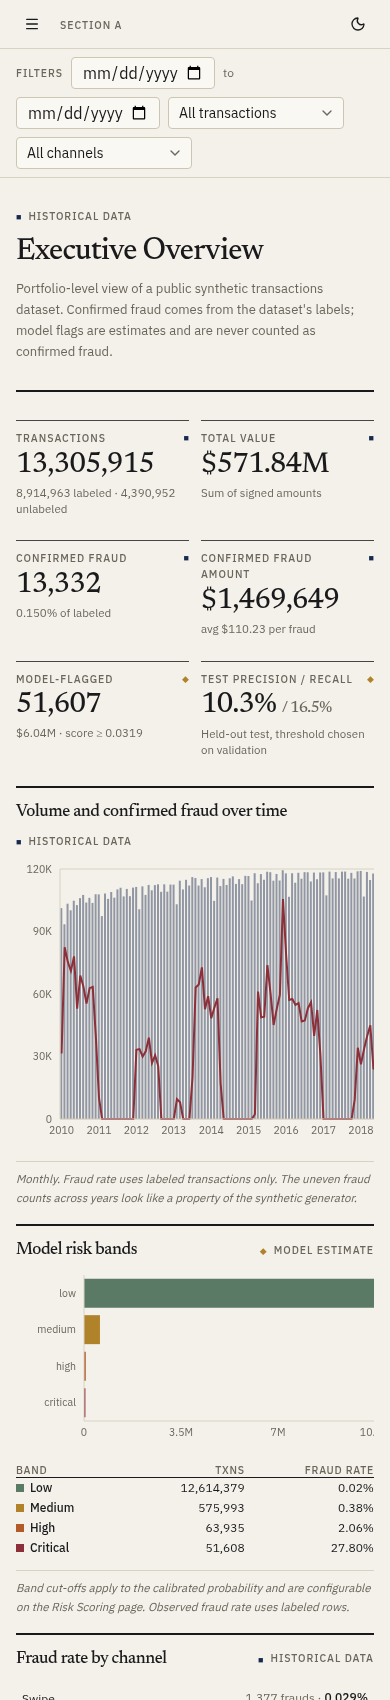
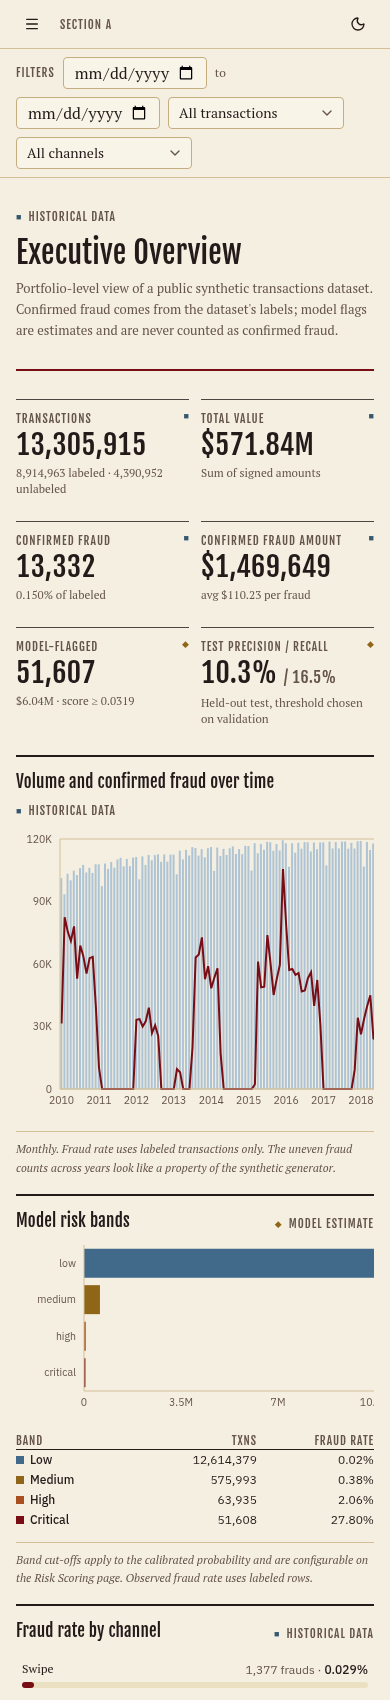
Theme: crimson/tan/cream/dusty-blue palette; Fjalla One headings, PT Serif body

diff --git a/frontend/app/globals.css b/frontend/app/globals.css
@@ -12,10 +12,10 @@
   --color-accent2: var(--accent2);
   --color-background: var(--background);
   --color-foreground: var(--foreground);
-  --font-sans: var(--font-plex-sans);
+  --font-sans: var(--font-ptserif);
   --font-mono: var(--font-plex-mono);
-  --font-heading: var(--font-serif);
-  --font-serif: var(--font-newsreader);
+  --font-heading: var(--font-fjalla);
+  --font-serif: var(--font-fjalla);
   --color-sidebar-ring: var(--sidebar-ring);
   --color-sidebar-border: var(--sidebar-border);
   --color-sidebar-accent-foreground: var(--sidebar-accent-foreground);
@@ -134,47 +134,60 @@
     @apply font-sans;
   }
 }
+/* Palette: crimson #790d16, tan #e5d3af, cream #f5efe1, dusty blue #aec4d4. Other tones are derived from these. */
 :root {
   --radius: 0.25rem;
-  --background: #f4f1ea; --foreground: #1a1a1c;
-  --card: #faf8f3; --card-foreground: #1a1a1c;
-  --popover: #fbf9f5; --popover-foreground: #1a1a1c;
-  --primary: #17294d; --primary-foreground: #f6f3ec;
-  --secondary: #ebe7dc; --secondary-foreground: #1a1a1c;
-  --muted: #ebe7dc; --muted-foreground: #6a665c;
-  --accent: #e9e4d6; --accent-foreground: #17294d;
-  --destructive: #8c2f39;
-  --border: #d8d2c3; --input: #cdc6b5; --ring: #17294d;
-  --sidebar: #efebe1; --sidebar-foreground: #1a1a1c; --sidebar-border: #d8d2c3;
-  --low: #5b7a66; --medium: #b0832a; --high: #b25a28; --critical: #8c2f39; --accent2: #3f6a82;
-  --chart-1: #17294d; --chart-2: #6f8aa3; --chart-3: #b0832a; --chart-4: #a8a191; --chart-5: #8c2f39;
+  --background: #f5efe1; --foreground: #231a1a;
+  --card: #f9f4e8; --card-foreground: #231a1a;
+  --popover: #faf6ec; --popover-foreground: #231a1a;
+  --primary: #790d16; --primary-foreground: #f5efe1;
+  --secondary: #e5d3af; --secondary-foreground: #231a1a;
+  --muted: #ece0c3; --muted-foreground: #65544a;
+  --accent: #e5d3af; --accent-foreground: #790d16;
+  --destructive: #790d16;
+  --border: #d3c096; --input: #c4ae80; --ring: #790d16;
+  --sidebar: #e5d3af; --sidebar-foreground: #231a1a; --sidebar-border: #c9b487;
+  --low: #41698a; --medium: #8f6618; --high: #a8501f; --critical: #790d16; --accent2: #36586f;
+  --chart-1: #790d16; --chart-2: #aec4d4; --chart-3: #8f6618; --chart-4: #c9b487; --chart-5: #790d16;
 }
 .dark {
-  --background: #141517; --foreground: #e9e5da;
-  --card: #1a1b1e; --card-foreground: #e9e5da;
-  --popover: #1c1d20; --popover-foreground: #e9e5da;
-  --primary: #b8c7e6; --primary-foreground: #121a2b;
-  --secondary: #232427; --secondary-foreground: #e9e5da;
-  --muted: #232427; --muted-foreground: #9a968a;
-  --accent: #26272b; --accent-foreground: #d5def2;
-  --destructive: #d0616c;
-  --border: #2d2e32; --input: #3a3b40; --ring: #b8c7e6;
-  --sidebar: #111214; --sidebar-foreground: #e9e5da; --sidebar-border: #2d2e32;
-  --low: #84a58f; --medium: #d1a449; --high: #d98350; --critical: #d0616c; --accent2: #7fa6bd;
-  --chart-1: #b8c7e6; --chart-2: #6f8aa3; --chart-3: #d1a449; --chart-4: #6b685f; --chart-5: #d0616c;
+  --background: #1c1315; --foreground: #f5efe1;
+  --card: #251a1c; --card-foreground: #f5efe1;
+  --popover: #2a1e20; --popover-foreground: #f5efe1;
+  --primary: #e08a91; --primary-foreground: #240a0d;
+  --secondary: #33262a; --secondary-foreground: #f5efe1;
+  --muted: #2b2023; --muted-foreground: #bcae96;
+  --accent: #3a2b2e; --accent-foreground: #e5d3af;
+  --destructive: #e08a91;
+  --border: #3d2d30; --input: #4b393c; --ring: #e08a91;
+  --sidebar: #160e10; --sidebar-foreground: #f5efe1; --sidebar-border: #3d2d30;
+  --low: #8fb0c8; --medium: #d4a85a; --high: #e08a57; --critical: #e5737b; --accent2: #aec4d4;
+  --chart-1: #e08a91; --chart-2: #aec4d4; --chart-3: #d4a85a; --chart-4: #6b5a50; --chart-5: #e5737b;
 }
 @layer base {
-  body { background: var(--background); font-feature-settings: "ss01", "cv11"; -webkit-font-smoothing: antialiased; }
-  h1, h2, .serif { font-family: var(--font-serif), Georgia, serif; font-feature-settings: "lnum", "tnum"; }
+  * {
+    @apply border-border outline-ring/50;
+  }
+  body {
+    @apply bg-background text-foreground;
+  }
+  html {
+    @apply font-sans;
+  }
 }
-.tnum { font-variant-numeric: tabular-nums lining-nums; }
-.eyebrow { font-size: 10.5px; letter-spacing: 0.09em; text-transform: uppercase; color: var(--muted-foreground); font-weight: 500; }
+@layer base {
+  body { background: var(--background); -webkit-font-smoothing: antialiased; }
+  h1, h2, .serif { font-family: var(--font-fjalla), Impact, sans-serif; font-weight: 400; letter-spacing: 0.01em; }
+}
+.tnum { font-family: var(--font-plex-sans), system-ui, sans-serif; font-variant-numeric: tabular-nums lining-nums; }
+.tnum.serif { font-family: var(--font-fjalla), Impact, sans-serif; letter-spacing: 0.01em; }
+.eyebrow { font-family: var(--font-fjalla), Impact, sans-serif; font-weight: 400; font-size: 11.5px; letter-spacing: 0.09em; text-transform: uppercase; color: var(--muted-foreground); font-weight: 500; }
 .rule-table th { font-size: 10.5px; letter-spacing: 0.07em; text-transform: uppercase; font-weight: 500; }
 @keyframes rise { from { opacity: 0; transform: translateY(3px); } to { opacity: 1; transform: none; } }
 .rise { animation: rise .25s ease both; }
 @media (prefers-reduced-motion: reduce) { .rise { animation: none; } }
 @media print { aside, header, .no-print { display: none !important; } body { background: #fff; } }
-thead th { font-size: 10.5px; letter-spacing: 0.07em; text-transform: uppercase; font-weight: 500 !important; color: var(--muted-foreground); }
+thead th { font-family: var(--font-fjalla), Impact, sans-serif; font-size: 11.5px; letter-spacing: 0.08em; text-transform: uppercase; font-weight: 400 !important; color: var(--muted-foreground); }
 thead tr { border-bottom: 1px solid var(--foreground); }
 tbody tr { border-color: var(--border); }
 input, textarea, [role="combobox"] { background: var(--card) !important; }

diff --git a/frontend/components/kit.tsx b/frontend/components/kit.tsx
@@ -7,9 +7,9 @@ import Link from "next/link";
 
 export type Kind = "historical" | "model" | "simulated";
 const KIND: Record<Kind, { label: string; glyph: string; cls: string }> = {
-  historical: { label: "Historical data", glyph: "■", cls: "text-chart-1" },
+  historical: { label: "Historical data", glyph: "■", cls: "text-accent2" },
   model: { label: "Model estimate", glyph: "◆", cls: "text-chart-3" },
-  simulated: { label: "Simulated scenario", glyph: "◇", cls: "text-chart-5" },
+  simulated: { label: "Simulated scenario", glyph: "◇", cls: "text-primary" },
 };
 export function Provenance({ kind, className }: { kind: Kind; className?: string }) {
   const k = KIND[kind];
@@ -18,10 +18,10 @@ export function Provenance({ kind, className }: { kind: Kind; className?: string
 
 export function PageHeader({ title, subtitle, kind, children }: { title: string; subtitle?: string; kind?: Kind; children?: React.ReactNode }) {
   return (
-    <div className="rise mb-7 flex flex-wrap items-end justify-between gap-3 border-b-2 border-foreground pb-4">
+    <div className="rise mb-7 flex flex-wrap items-end justify-between gap-3 border-b-2 border-primary pb-4">
       <div>
         {kind && <div className="mb-2"><Provenance kind={kind} /></div>}
-        <h1 className="text-[30px] font-medium leading-tight tracking-tight">{title}</h1>
+        <h1 className="text-[30px] font-medium leading-tight ">{title}</h1>
         {subtitle && <p className="mt-1.5 max-w-3xl text-[13px] leading-relaxed text-muted-foreground">{subtitle}</p>}
       </div>
       <div className="no-print flex items-center gap-2">{children}</div>
@@ -36,7 +36,7 @@ export function Kpi({ label, value, sub, href, kind, hint }: { label: string; va
         <span className="eyebrow">{label}</span>
         {kind && <span aria-label={KIND[kind].label} title={KIND[kind].label} className={cn("text-[9px]", KIND[kind].cls)}>{KIND[kind].glyph}</span>}
       </div>
-      <div className="tnum serif mt-1 text-[28px] font-medium leading-none tracking-tight">{value}</div>
+      <div className="tnum serif mt-1 text-[28px] font-medium leading-none ">{value}</div>
       {sub && <div className="mt-1.5 text-[11.5px] leading-snug text-muted-foreground">{sub}</div>}
     </div>
   );
@@ -47,7 +47,7 @@ export function Panel({ title, kind, note, children, className, action }: { titl
   return (
     <section className={cn("rise min-w-0 border-t-2 border-foreground pt-3", className)}>
       <div className="mb-3 flex flex-wrap items-baseline justify-between gap-2">
-        <h2 className="text-[17px] font-medium tracking-tight">{title}</h2>
+        <h2 className="text-[17px] font-medium ">{title}</h2>
         <div className="flex items-center gap-3">{action}{kind && <Provenance kind={kind} />}</div>
       </div>
       <div className="space-y-3 overflow-x-auto">{children}</div>

diff --git a/frontend/app/analytics/page.tsx b/frontend/app/analytics/page.tsx
@@ -51,7 +51,7 @@ export default function Analytics() {
             <div><dt className="text-xs text-muted-foreground">Fraud in top 1% of clients</dt><dd className="tnum">{pct(d.concentration.share_in_top_1pct_clients, 1)}</dd></div>
             <div><dt className="text-xs text-muted-foreground">Fraud in top 10% of clients</dt><dd className="tnum">{pct(d.concentration.share_in_top_10pct_clients, 1)}</dd></div></dl>)}</Async></Panel>
         <Panel title="Amount distribution" kind="historical" className="lg:col-span-2" note={h.data?.note}>
-          <Async state={h} h="h-64">{(d) => (<div className="h-64"><ResponsiveContainer><BarChart data={d.rows} margin={{ left: 0, right: 8 }}><CartesianGrid stroke={GRID} vertical={false} /><XAxis dataKey="bucket" {...AXIS} tickFormatter={(v: number) => "$" + v} /><YAxis {...AXIS} width={50} tickFormatter={(v: number) => (v >= 1e6 ? (v / 1e6).toFixed(1) + "M" : v >= 1e3 ? (v / 1e3).toFixed(0) + "k" : String(v))} /><Tooltip content={<ChartTip fmt={(_n, v) => n0(v)} />} /><Bar isAnimationActive={false} dataKey="n" name="Transactions" fill="var(--chart-1)" fillOpacity={0.6} /><Bar isAnimationActive={false} dataKey="fraud" name="Confirmed fraud" fill="var(--chart-5)" /></BarChart></ResponsiveContainer></div>)}</Async></Panel>
+          <Async state={h} h="h-64">{(d) => (<div className="h-64"><ResponsiveContainer><BarChart data={d.rows} margin={{ left: 0, right: 8 }}><CartesianGrid stroke={GRID} vertical={false} /><XAxis dataKey="bucket" {...AXIS} tickFormatter={(v: number) => "$" + v} /><YAxis {...AXIS} width={50} tickFormatter={(v: number) => (v >= 1e6 ? (v / 1e6).toFixed(1) + "M" : v >= 1e3 ? (v / 1e3).toFixed(0) + "k" : String(v))} /><Tooltip content={<ChartTip fmt={(_n, v) => n0(v)} />} /><Bar isAnimationActive={false} dataKey="n" name="Transactions" fill="var(--chart-2)" /><Bar isAnimationActive={false} dataKey="fraud" name="Confirmed fraud" fill="var(--chart-5)" /></BarChart></ResponsiveContainer></div>)}</Async></Panel>
       </div>
     </>
   );

diff --git a/frontend/app/layout.tsx b/frontend/app/layout.tsx
@@ -1,5 +1,5 @@
 import type { Metadata } from "next";
-import { IBM_Plex_Sans, IBM_Plex_Mono, Newsreader } from "next/font/google";
+import { IBM_Plex_Sans, IBM_Plex_Mono, Fjalla_One, PT_Serif } from "next/font/google";
 import { ThemeProvider } from "next-themes";
 import { TooltipProvider } from "@/components/ui/tooltip";
 import { FiltersProvider } from "@/lib/filters";
@@ -7,7 +7,8 @@ import { Shell } from "@/components/shell";
 import "./globals.css";
 import { cn } from "@/lib/utils";
 
-const serif = Newsreader({ subsets: ['latin'], weight: ['400', '500', '600'], style: ['normal', 'italic'], variable: '--font-newsreader' });
+const fjalla = Fjalla_One({ subsets: ['latin'], weight: '400', variable: '--font-fjalla' });
+const ptserif = PT_Serif({ subsets: ['latin'], weight: ['400', '700'], style: ['normal', 'italic'], variable: '--font-ptserif' });
 
 const sans = IBM_Plex_Sans({ subsets: ["latin"], weight: ["400", "500", "600"], variable: "--font-plex-sans" });
 const mono = IBM_Plex_Mono({ subsets: ["latin"], weight: ["400", "500"], variable: "--font-plex-mono" });
@@ -19,7 +20,7 @@ export const metadata: Metadata = {
 
 export default function RootLayout({ children }: { children: React.ReactNode }) {
   return (
-    <html lang="en" suppressHydrationWarning className={cn(sans.variable, mono.variable, "font-sans", serif.variable)}>
+    <html lang="en" suppressHydrationWarning className={cn(sans.variable, mono.variable, "font-sans", fjalla.variable, ptserif.variable)}>
       <body>
         <ThemeProvider attribute="class" defaultTheme="light" enableSystem={false}>
           <TooltipProvider><FiltersProvider><Shell>{children}</Shell></FiltersProvider></TooltipProvider>

diff --git a/frontend/app/page.tsx b/frontend/app/page.tsx
@@ -51,7 +51,7 @@ export default function Overview() {
                     <YAxis yAxisId="l" {...AXIS} tickFormatter={compact} width={44} />
                     <YAxis yAxisId="r" orientation="right" {...AXIS} tickFormatter={(v: number) => v.toFixed(2) + "%"} width={48} />
                     <Tooltip content={<ChartTip fmt={(n, v) => n.includes("rate") ? v.toFixed(3) + "%" : n0(v)} />} />
-                    <Bar isAnimationActive={false} yAxisId="l" dataKey="n" name="Transactions" fill="var(--chart-1)" fillOpacity={0.45} />
+                    <Bar isAnimationActive={false} yAxisId="l" dataKey="n" name="Transactions" fill="var(--chart-2)" />
                     <Line isAnimationActive={false} yAxisId="r" dataKey="rate" name="Fraud rate (labeled)" stroke="var(--chart-5)" strokeWidth={2} dot={false} connectNulls />
                   </ComposedChart>
                 </ResponsiveContainer></div>

diff --git a/frontend/components/charts.tsx b/frontend/components/charts.tsx
@@ -1,5 +1,5 @@
 "use client";
-export const AXIS = { stroke: "var(--muted-foreground)", fontSize: 10.5, tickLine: false, axisLine: { stroke: "var(--border)" } } as const;
+export const AXIS = { stroke: "var(--muted-foreground)", fontSize: 10.5, fontFamily: "var(--font-plex-sans)", tickLine: false, axisLine: { stroke: "var(--border)" } } as const;
 export const GRID = "var(--border)";
 export function ChartTip({ active, payload, label, fmt }: { active?: boolean; payload?: { name: string; value: number; color: string; payload: Record<string, unknown> }[]; label?: string | number; fmt?: (name: string, v: number) => string }) {
   if (!active || !payload?.length) return null;
